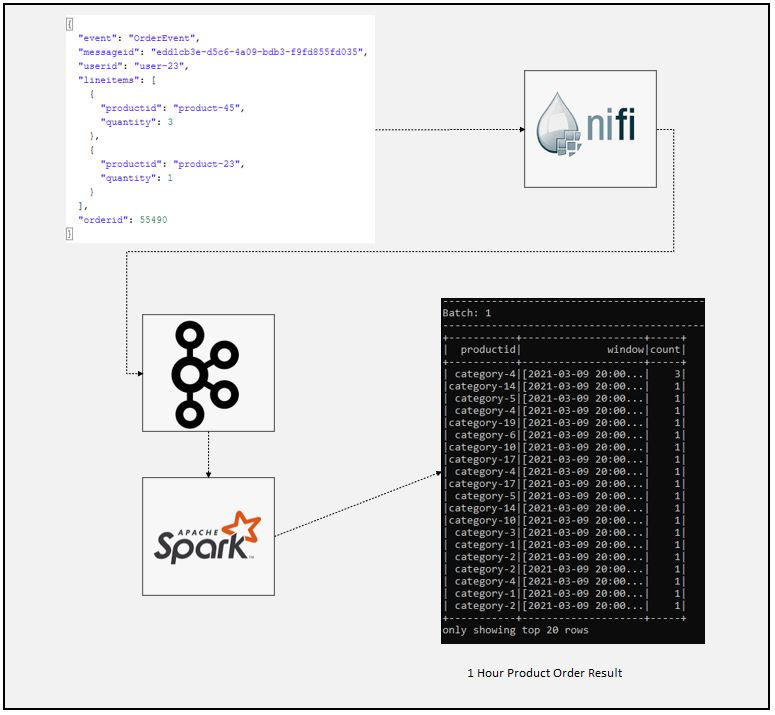
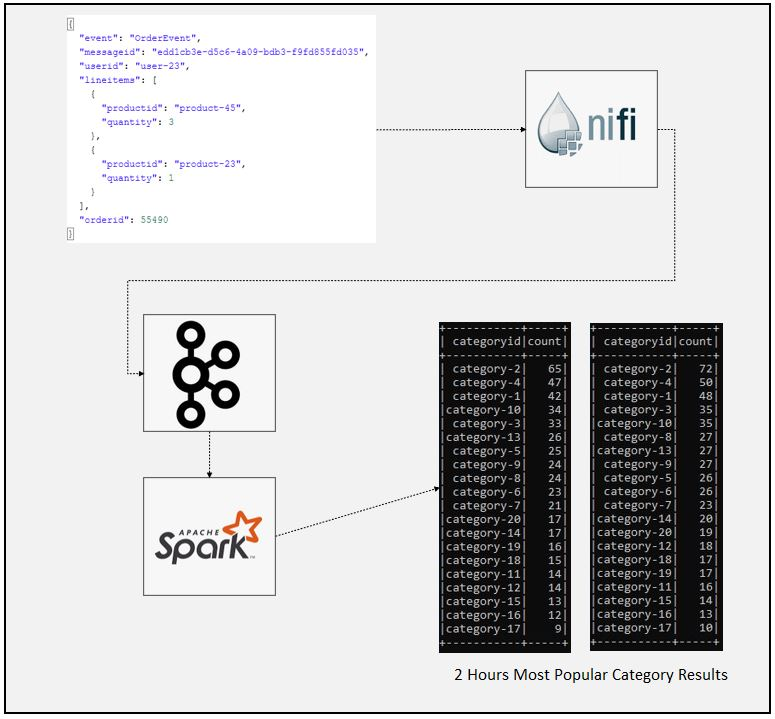
readme added

diff --git a/README.md b/README.md
@@ -1,0 +1,187 @@
+# SparkStream E-commerce Hourly Most Popular Product Category
+### Dataflow Pipeline
+![](pipeline.JPG)
+
+### Summary
+
+In this application we used 30.000 order data and simulate those data as 1 transaction each minute using apache kafka and apache nifi. Apache nifi used to transform raw data to make data ready for analysis. SparkStream api used to perform necessary transformations. Raw data contains product type and excel dictionary "product-category-map.csv" used to convert product column to category column. Results aggregated each hour and sinked to csv file as hourly report.
+
+### Task List
+
+- [x] Check raw json data using https://jsoneditoronline.org/
+- [x] Write json jolt transform script to get required data format using https://jolt-demo.appspot.com
+```
+[{
+  "operation": "shift",
+  "spec": {
+    "lineitems": {
+      "*": {
+        "@(2,userid)": "[#2].userid",
+        "@productid": "[#2].productid",
+        "@quantity": "[#2].quantity"
+      }
+    }
+  }
+}]
+```
+![](jolt_transform.JPG)
+
+- [x] Create nifi pipeline
+
+![](nifi_pipeline.JPG)
+
+- [x] Use https://randomuser.me/api/0.8 to generate random user data
+- [x] Create kafka topic
+- [x] Create spark session and define schema
+```
+spark = SparkSession \
+    .builder \
+    .appName("Tumbling Window Stream2") \
+    .master("local[3]") \
+    .config("spark.streaming.stopGracefullyOnShutdown", "true") \
+    .config("spark.sql.shuffle.partitions", 2) \
+    .config("spark.sql.codegen.wholeStag","false") \
+    .getOrCreate()
+
+#Describe schema (userid,productid, quantity and timestamp will be enough to find most bought category)
+schema = StructType([
+StructField("userid", StringType()),
+StructField("productid", StringType()),
+StructField("quantity", StringType()),
+StructField("timestamp", StringType())
+])
+```
+- [x] Read data from kafka topic
+```
+#Read data from kafka topic
+    kafka_df = spark.readStream \
+        .format("kafka") \
+        .option("kafka.bootstrap.servers", "localhost:9092") \
+        .option("subscribe", "order3") \
+        .option("startingOffsets", "earliest") \
+        .load()
+```
+- [x] Deserialization and transformations of data
+```
+#Data in kafka topic have key-value format, from_json is used to deserialize json value from string
+    value_df = kafka_df.select(from_json(col("value").cast("string"), schema).alias("value"))
+#Checking schema if everything is correct
+    value_df.printSchema()
+#Explode dataframe to remove sub-structures
+    explode_df = value_df.selectExpr("value.userid", "value.productid",
+                                     "value.quantity","value.timestamp")
+#Checking schema if everything is correct
+    explode_df.printSchema()
+#Set timeParserPolicy=Legacy to parse timestamp in given format
+    spark.sql("set spark.sql.legacy.timeParserPolicy=LEGACY")
+#Convert string type to timestamp
+    transformed_df = explode_df.select("userid", "productid", "quantity", "timestamp") \
+        .withColumn("timestamp", to_timestamp(col("timestamp"), "yyyy-MM-dd HH:mm:ss")) \
+
+#Checcking schema if everything is correct
+    transformed_df.printSchema()
+```
+- [x] Create 1 hour window
+```
+#Create 1 hour window
+#Create watermark to autoclean history
+#Groupby product_id and count considering distinct users
+#Rename new column as count
+    window_count_df = transformed_df \
+        .withWatermark("timestamp", "1 minute") \
+        .groupBy(col("productid"),
+            window(col("timestamp"),"1 minute")) \
+            .agg(approx_count_distinct("userid").alias("count"))
+```
+- [x] Convert productid column with categoryid column
+```
+#Select everything from dataframe and sort by highest to lowest count rate
+    output_df = window_count_df.select("*")
+#Import category - product ID csv file
+    dict_df = spark.read.csv('C:/Users/PC/Documents/Jupyter/Job_Interview_Cases/Hepsiburada/Unzip/data/product-category-map.csv')
+#Create dictionary from dataframe
+    dict = dict_df.select('_c0', '_c1').rdd.collectAsMap()
+#Map current dataframe with created dictionary to replace product_id with category name
+    output_df = output_df.na.replace(dict, 1)
+#Rename product_id column to category id
+    output_df = output_df.withColumnRenamed("productid","categoryid")
+```
+- [x] Create 2 foreach batch function to perform aggregations and write data into csv file and console
+```
+#Define foreach batch function to aggrate stream data several times and sink to csv file
+def foreach_batch_func(df, epoch_id):
+    df = df.groupBy(col("categoryid")).sum("count")
+    df = df.withColumnRenamed("sum(count)","count")
+    df = df.sort(desc("count"))
+    df.coalesce(1) \
+        .write.format("csv") \
+        .option("header","true") \
+        .mode("append") \
+        .option("sep",",") \
+        .save("report.csv")
+    pass
+#Coalesce(1) prevent csv file partitioning
+
+#Define foreach batch function to aggrate stream data several times and print console
+def foreach_batch_func2(df, epoch_id):
+    df = df.groupBy(col("categoryid")).sum("count")
+    df = df.withColumnRenamed("sum(count)","count")
+    df = df.sort(desc("count"))
+    df \
+        .write.format("console") \
+        .save()
+    pass
+```
+- [x] Write data into console and csv file
+```
+#Write spark stream to console or csv sink
+    window_query = output_df.writeStream \
+    .foreachBatch(lambda df, epoch_id: foreach_batch_func(df, epoch_id))\
+    .outputMode("append") \
+    .option("format","append") \
+    .option("path","C:/Users/PC/Documents/Jupyter/Job_Interview_Cases/Hepsiburada/Unzip/data/") \
+    .trigger(processingTime="1 minute") \
+    .start()
+
+#Write spark stream to console or csv sink
+    window_query_2 = output_df.writeStream \
+    .foreachBatch(lambda df, epoch_id: foreach_batch_func2(df, epoch_id))\
+    .outputMode("append") \
+    .option("format","append") \
+    .option("path","C:/Users/PC/Documents/Jupyter/Job_Interview_Cases/Hepsiburada/Unzip/data/") \
+    .trigger(processingTime="1 minute") \
+    .start()
+
+    window_query.awaitTermination()
+```
+- [x] Check the results
+![](result4.JPG)
+
+### Code Description
+
+Product_Order_Pipeline.xml is nifi pipeline to simulate dataflow and perform ETL operations.
+
+nifi_spark_kafka_product_bought.py is spark streaming code for data processing, analysis and sink operation.
+
+
+### Running
+
+1. Start zookeeper (Check kafka scripts)
+
+```
+zookeeper-server-start.bat config\zookeeper.properties (zookeeper-server-start.sh for linux)
+```
+
+2. Start kafka (Check kafka scripts)
+```
+kafka-server-start.bat config\server.properties  (kafka-server-start.sh for linux)
+```
+
+3. Start nifi and processors
+
+4. Execute below code
+
+```
+spark-submit --packages org.apache.spark:spark-sql-kafka-0-10_2.12:3.0.1 nifi_spark_kafka_product_bought.py
+```
+5. Check results
